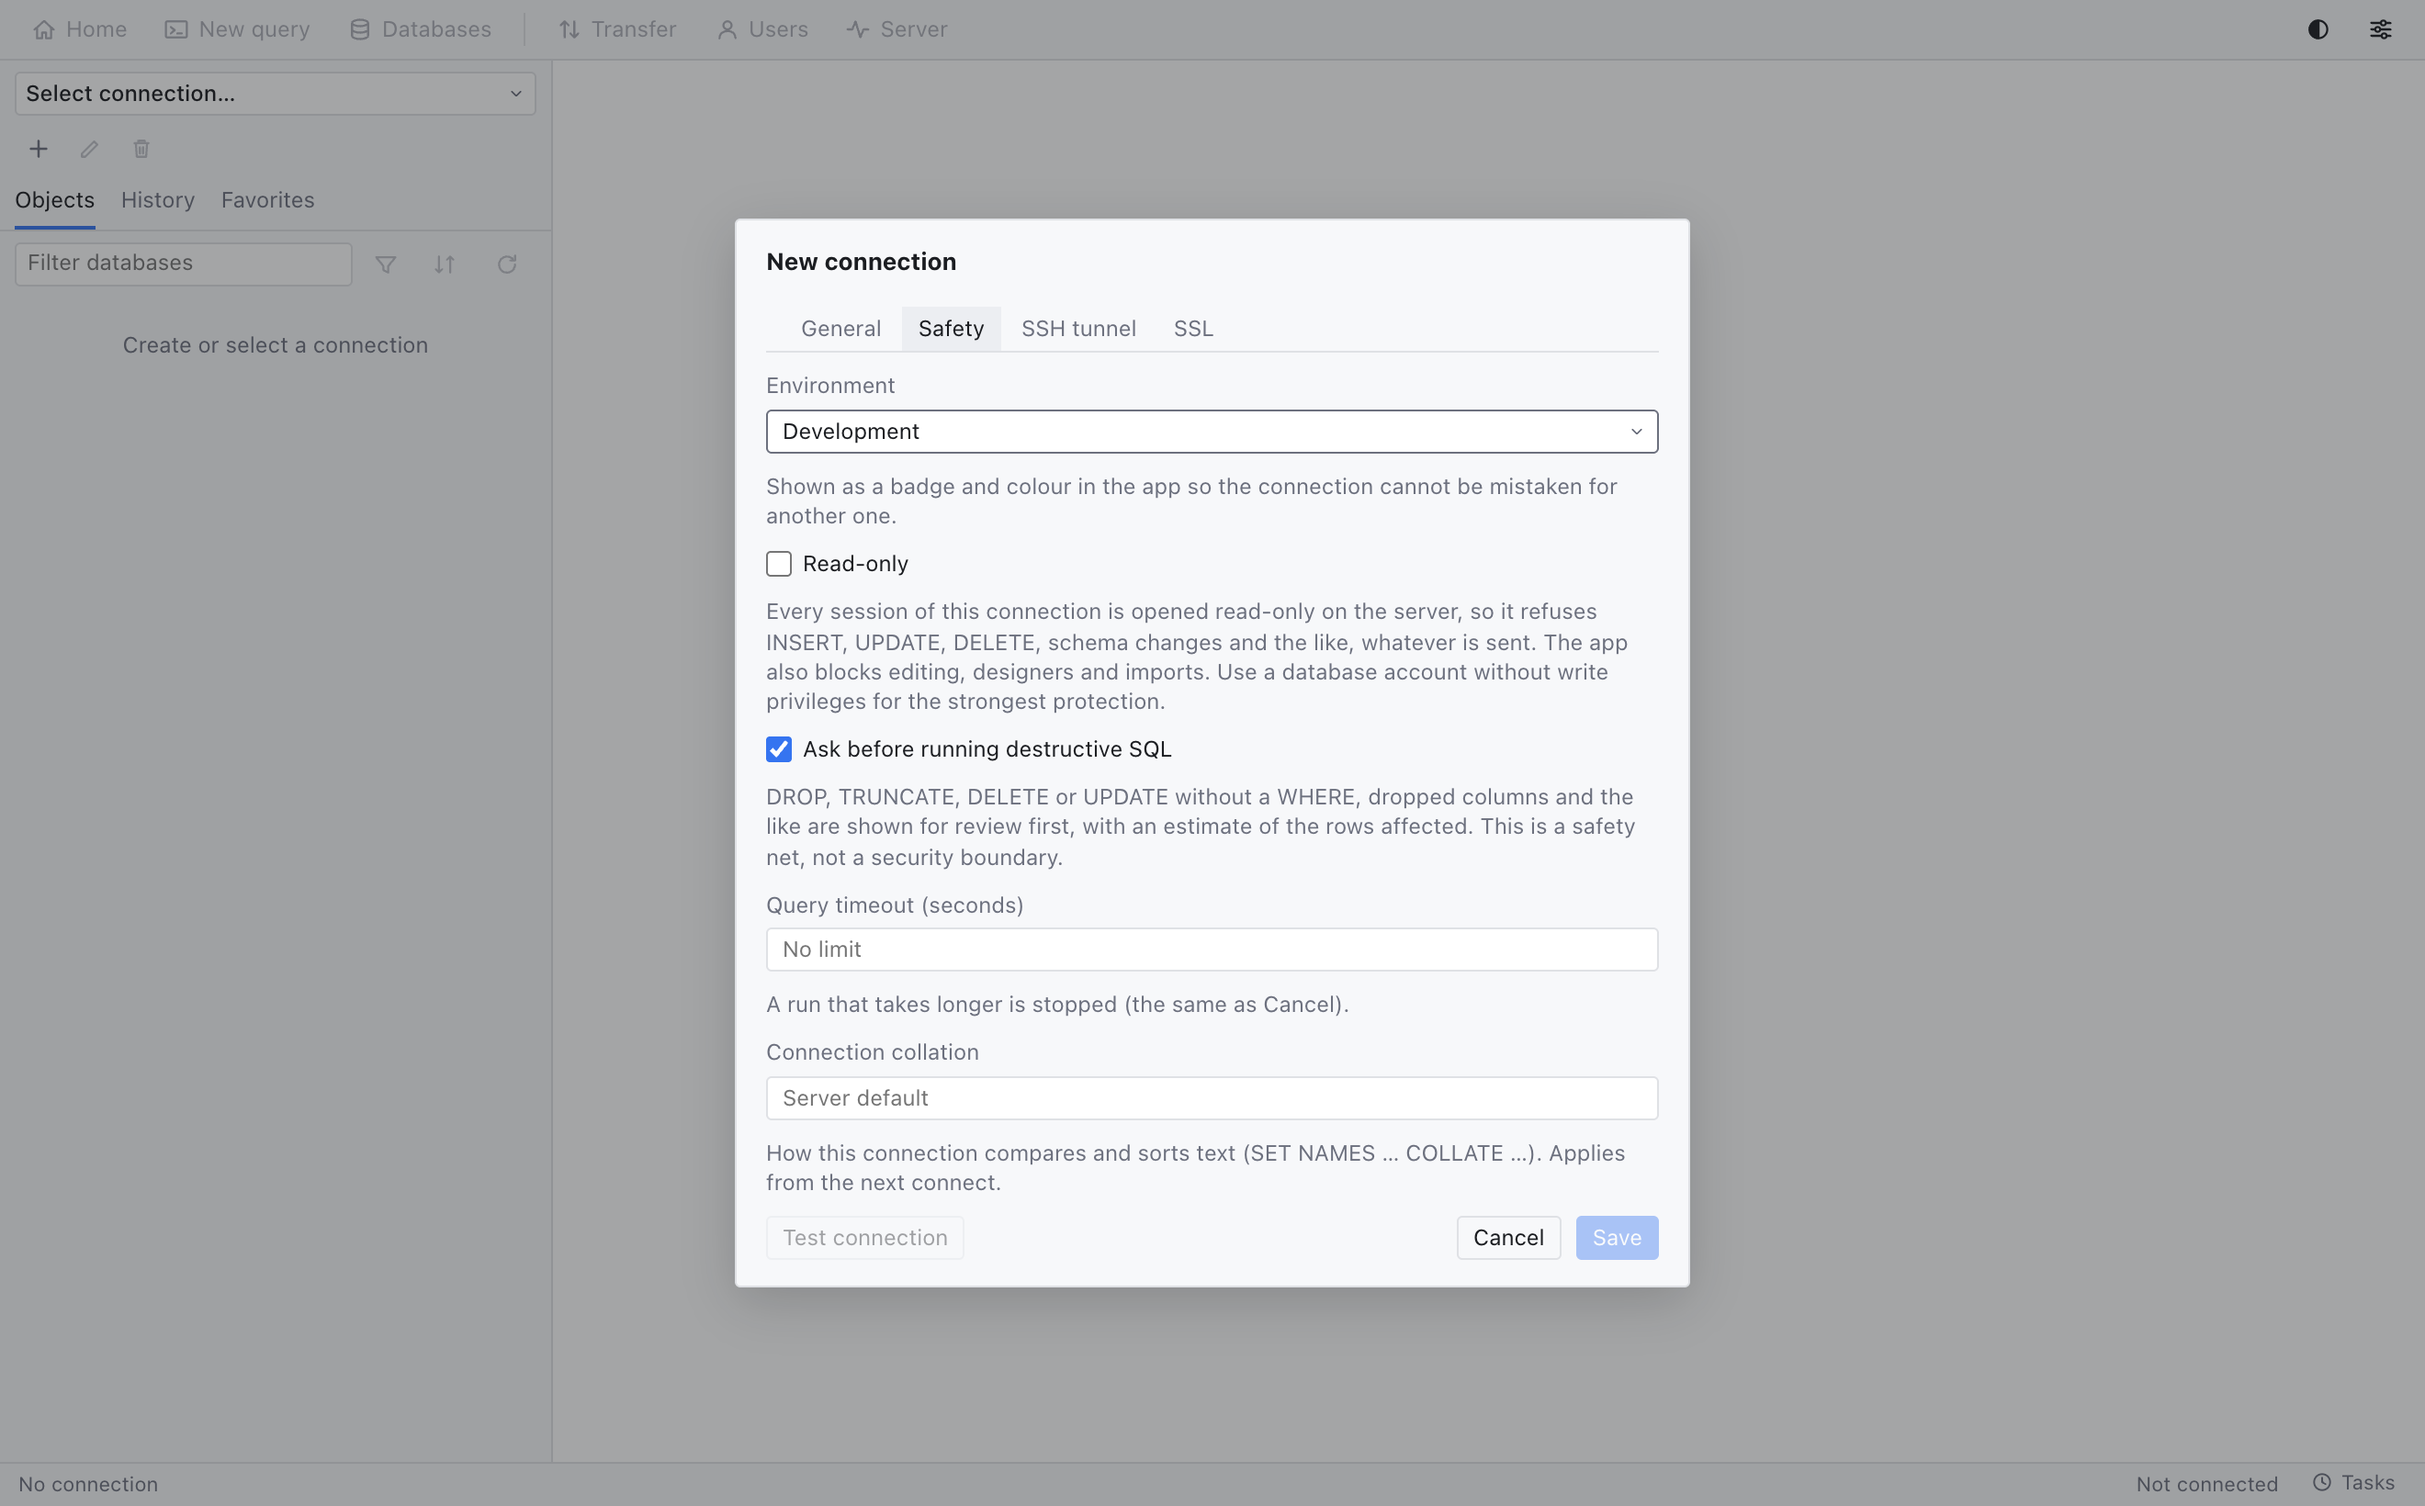
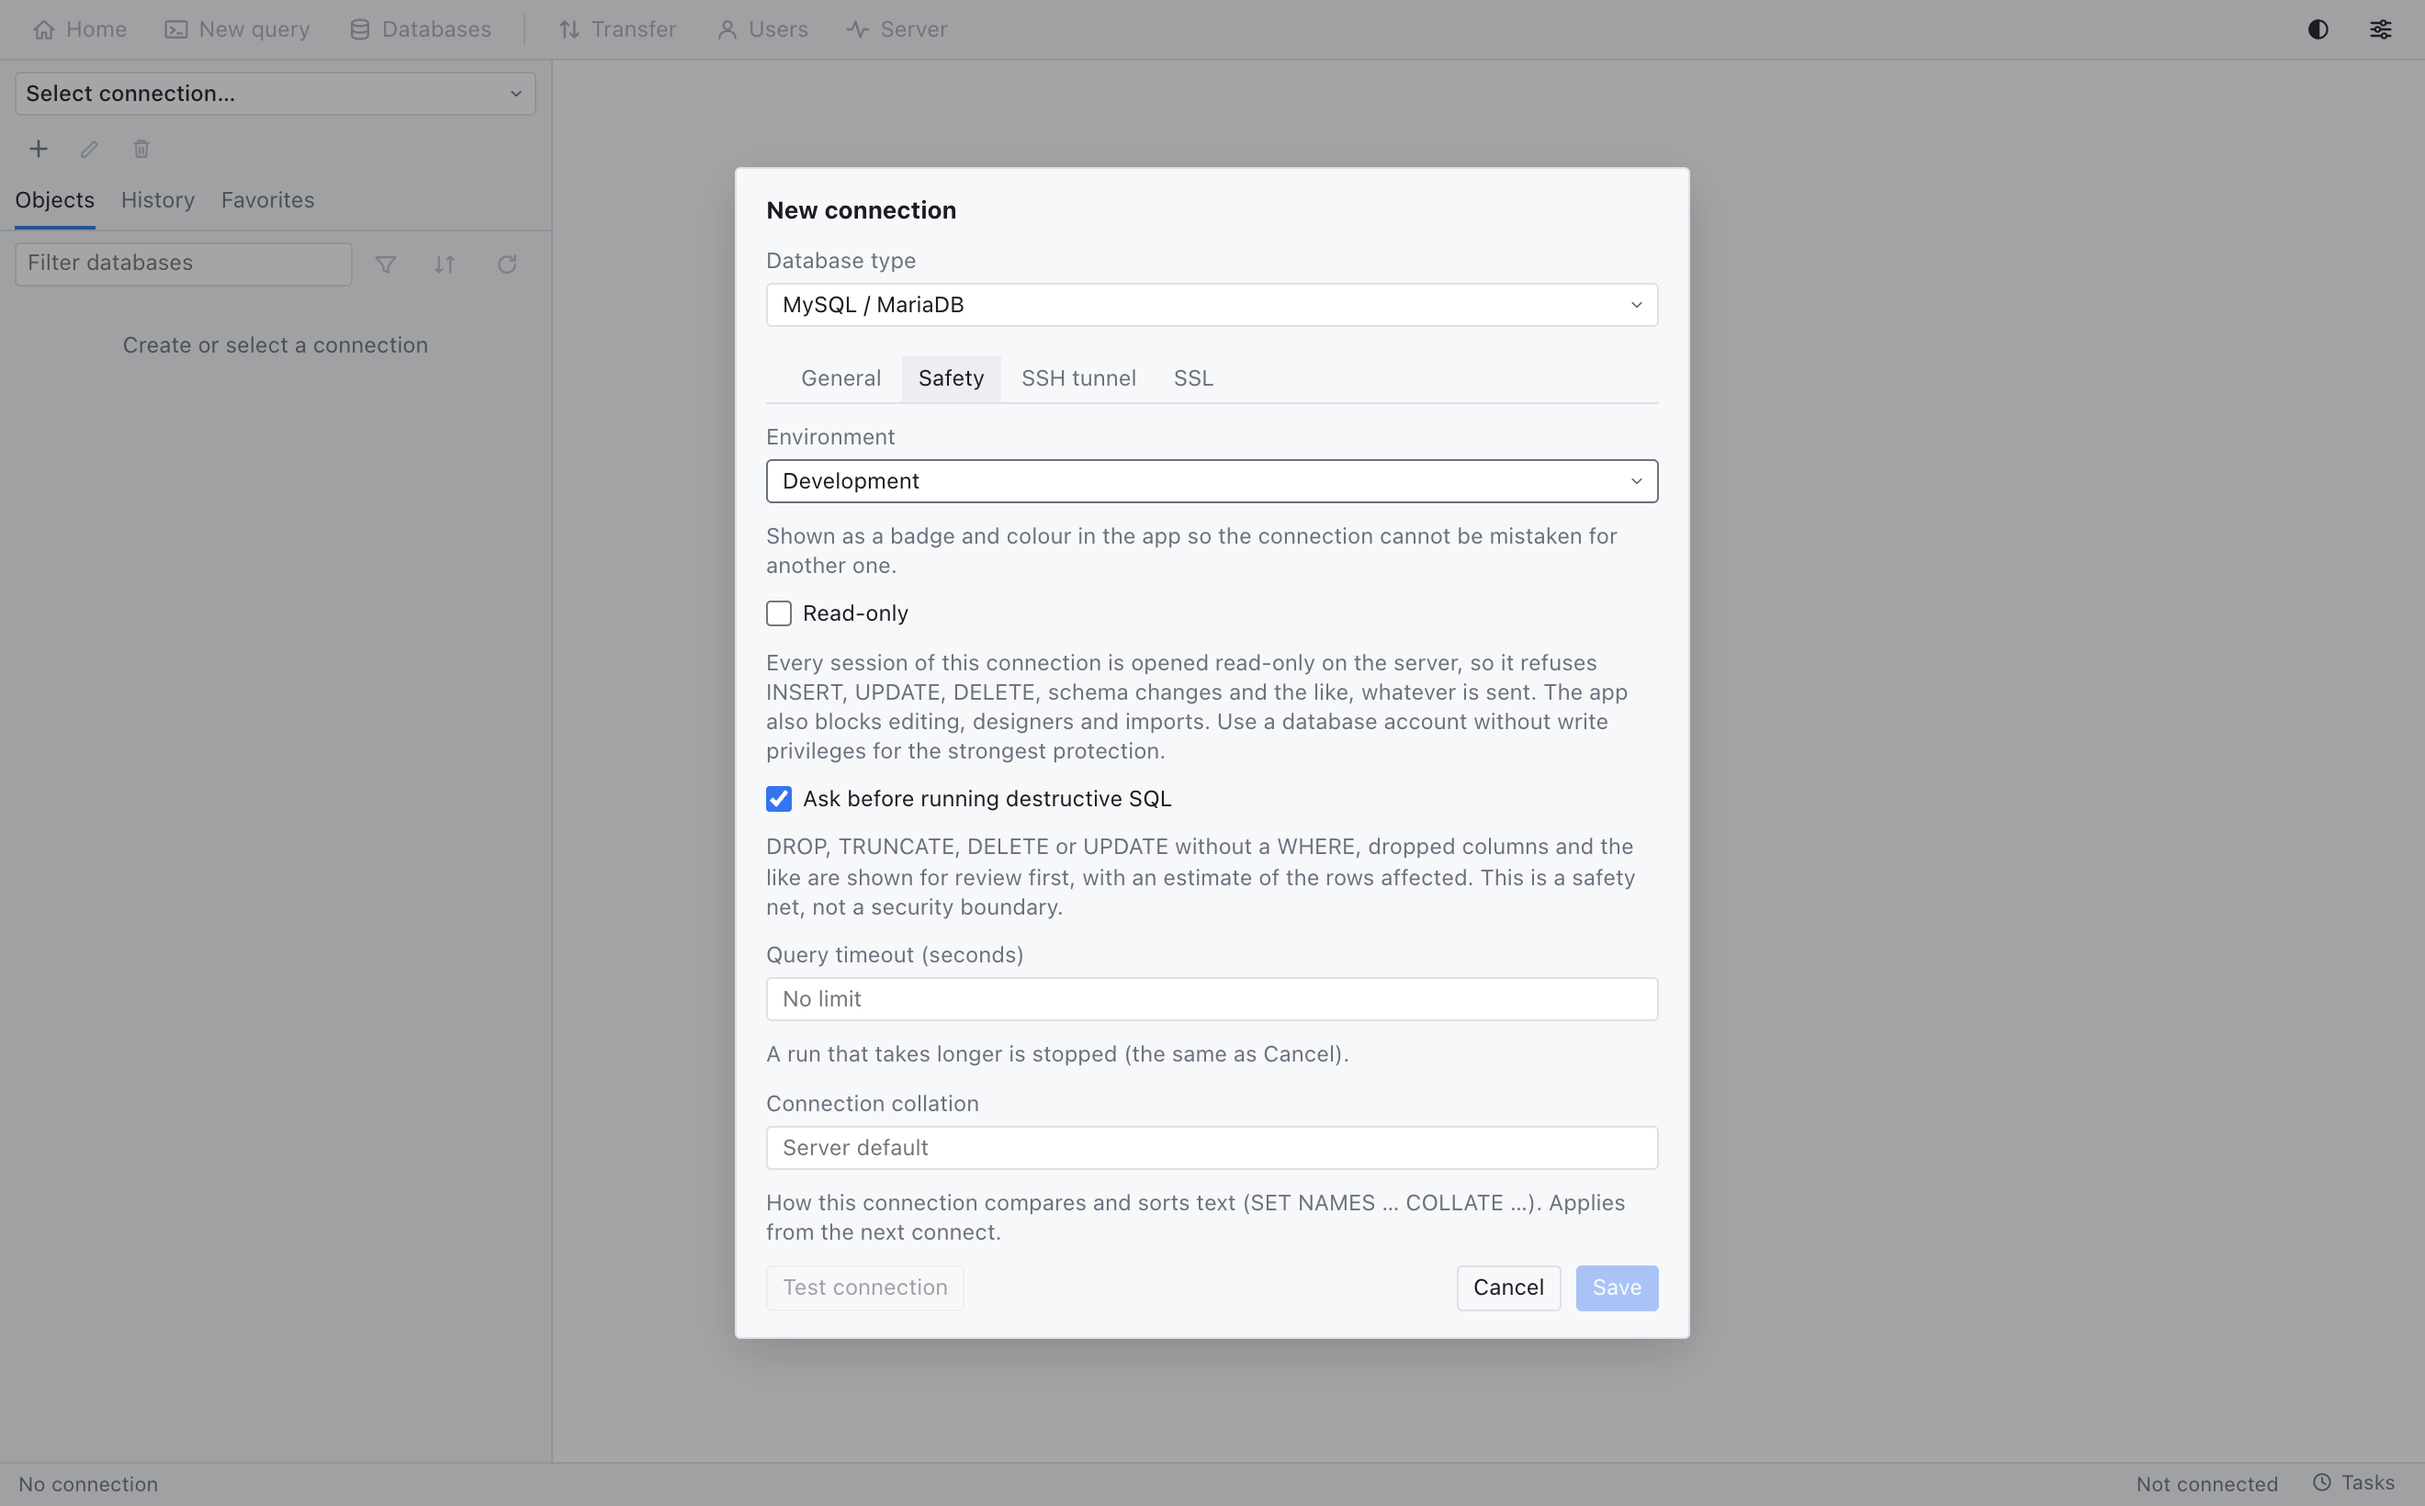
release: 0.2.0 (SQLite read-only, MariaDB fixes): version, changelog, README, manual, screenshots (#7)

diff --git a/apps/desktop/src/Manual.tsx b/apps/desktop/src/Manual.tsx
@@ -17,6 +17,16 @@ const SECTIONS: Section[] = [
       </ol>
       <p>Passwords are stored in the macOS Keychain, never in the app's own database or in logs.</p>
     </>) },
+  { id: "sqlite", title: "SQLite files", body: (
+    <>
+      <p>MyLoDB opens SQLite files too. In the connection dialog choose <b>Database type → SQLite file (read-only)</b>, pick the file and press <b>Test connection</b>.</p>
+      <ul>
+        <li>The file is opened <b>read-only</b>: nothing in MyLoDB can change it in this version, and opening never creates a file.</li>
+        <li>Browse tables, views, triggers, columns and indexes, run SQL, and page, sort, filter and count a table in the grid. Counts are exact; <code>REGEXP</code> is not available.</li>
+        <li>Users, server tools, events, routines and dump-based backup do not exist for a file: those buttons are disabled and their tooltips say why.</li>
+        <li>Not yet: editing, export from a table, and cancelling a running query.</li>
+      </ul>
+    </>) },
   { id: "browse", title: "Browsing objects", body: (
     <>
       <p>The sidebar tree shows databases, tables, views, routines, triggers and events. Click a name to filter the tree to it; click a table to see its columns.</p>

diff --git a/apps/desktop/src/AboutDialog.tsx b/apps/desktop/src/AboutDialog.tsx
@@ -25,7 +25,7 @@ export default function AboutDialog(props: { onClose(): void; onManual(): void }
             <div className="dim">Version {__APP_VERSION__}</div>
           </div>
         </div>
-        <p>An open-source MySQL and MariaDB manager for macOS, written in Rust and React. Built for people who miss SQLyog on the Mac.</p>
+        <p>An open-source MySQL, MariaDB and SQLite manager for macOS, written in Rust and React. Built for people who miss SQLyog on the Mac.</p>
         <table className="info kv">
           <tbody>
             <tr><th>Author</th><td>Omar Farook Hridoy (<ExtLink href={LINKS.author}>farookhridoy.com</ExtLink>)</td></tr>

diff --git a/README.md b/README.md
@@ -1,7 +1,7 @@
 <h1 align="center">MyLoDB</h1>
 
 <p align="center">
-  <b>An open-source MySQL and MariaDB manager for macOS, written in Rust and React.</b><br>
+  <b>An open-source MySQL, MariaDB and SQLite manager for macOS, written in Rust and React.</b><br>
   Browse, query, edit, design and administer your databases in one fast native window.
 </p>
 
@@ -30,7 +30,7 @@
 > **The first time you open MyLoDB, macOS shows a warning. That is expected.** The app is not signed with a paid Apple Developer certificate.
 > Click **Done** (not *Move to Trash*), then **System Settings → Privacy & Security → Open Anyway**. [Step-by-step](#how-to-install-and-open-mylodb).
 
-MyLoDB is for people who miss SQLyog on the Mac. It connects to MySQL and MariaDB and gives you a tree of your objects with a fast filter, a SQL editor with autocomplete, an editable data grid, a table designer, user and privilege management, server tools, and backup and import. It is built for safety (production colouring, server-enforced read-only, a review before destructive SQL) and for big tables (keyset paging, windowed grid, streamed exports).
+MyLoDB is for people who miss SQLyog on the Mac. It connects to MySQL and MariaDB (and opens SQLite files read-only) and gives you a tree of your objects with a fast filter, a SQL editor with autocomplete, an editable data grid, a table designer, user and privilege management, server tools, and backup and import. It is built for safety (production colouring, server-enforced read-only, a review before destructive SQL) and for big tables (keyset paging, windowed grid, streamed exports).
 
 *Screenshots show the real interface running on demo data, not a real server.*
 
@@ -46,6 +46,7 @@ MyLoDB is for people who miss SQLyog on the Mac. It connects to MySQL and MariaD
 | **Users and privileges** | Create, rename, lock, drop; global, database, table and column privileges shown as the exact GRANT / REVOKE diff. |
 | **Server tools** | Live overview, process list (kill), variables, status, maintenance (CHECK / OPTIMIZE / REPAIR), logs. |
 | **Backup and import** | Consistent SQL backup (one file or per table, optional zip), restore with a script preview, CSV import with column mapping, export to CSV, JSON, JSON Lines, SQL, XML, HTML, Excel. |
+| **SQLite** | Open a `.sqlite` / `.db` file read-only: browse tables, views and triggers, run SQL, page, sort and filter the data grid. Features a file cannot have (users, server tools, backup) are disabled with the reason. |
 | **Connections** | Passwords in the macOS Keychain. SSH tunnels (host key confirmation), SSL modes, connect by URL, groups, several connections open at once. |
 | **Safe by default** | Environment badge and colour, server-enforced read-only, query time limit, row-estimate review of destructive SQL, type-to-confirm on production. No telemetry. |
 | **Comfortable** | Light, dark and system themes, per-area fonts, four editor colour schemes, command palette (⌘K), native macOS menus, a built-in manual and a first-run tour. |
@@ -56,7 +57,7 @@ Get the installer from the **[Releases page](https://github.com/farookhridoy/myl
 
 | Your computer | File |
 |---|---|
-| Mac with Apple Silicon (M1 and later) | `MyLoDB_0.1.0_aarch64.dmg` |
+| Mac with Apple Silicon (M1 and later) | `MyLoDB_0.2.0_aarch64.dmg` |
 
 An Intel build and a signed build are on the [roadmap](docs/ROADMAP.md). Not sure which Mac you have? Apple menu → **About This Mac**.
 
@@ -125,7 +126,7 @@ Single runs on one machine, so treat them as indications. The method, the limits
 
 ## Status
 
-Version **0.1.0** is the first public release. Phases 1 to 13 of the [roadmap](docs/ROADMAP.md) are done: connection manager, object browser, SQL editor, data grid, table designer, users, server tools, backup and import, production safety, large-table engine, admin console, shell and preferences, workspace features. The Rust suite passes in CI on MySQL 8.0, 8.4 and 9 and MariaDB 10.11 and 11.4, and locally on MySQL 9.7 and MariaDB 13. MySQL 5.7 still fails some integration tests and is unsupported ([details](docs/SERVER_COMPATIBILITY.md)). Not yet: PostgreSQL / SQLite / SQL Server (design in [docs/ENGINE_ABSTRACTION.md](docs/ENGINE_ABSTRACTION.md)), schema compare, visual query builder, Windows and Linux builds, and a signed and notarised build.
+Version **0.2.0** adds SQLite files (read-only) and fixes MariaDB 10.11 / 11.4. Version 0.1.0 was the first public release. Phases 1 to 13 of the [roadmap](docs/ROADMAP.md) are done: connection manager, object browser, SQL editor, data grid, table designer, users, server tools, backup and import, production safety, large-table engine, admin console, shell and preferences, workspace features. The Rust suite passes in CI on MySQL 8.0, 8.4 and 9 and MariaDB 10.11 and 11.4, and locally on MySQL 9.7 and MariaDB 13. MySQL 5.7 still fails some integration tests and is unsupported ([details](docs/SERVER_COMPATIBILITY.md)). Not yet: SQLite editing, PostgreSQL and SQL Server (design and progress in [docs/ENGINE_ABSTRACTION.md](docs/ENGINE_ABSTRACTION.md)), Windows and Linux builds, and a signed and notarised build.
 
 ## Build it yourself
 

diff --git a/docs/MANUAL.md b/docs/MANUAL.md
@@ -1,6 +1,6 @@
 # MyLoDB user manual
 
-Version 0.1.0. The same text is inside the app: **Help → User Manual**. Screenshots show the real interface running on demo data (a fake `shop` database), not a real server.
+Version 0.2.0. The same text is inside the app: **Help → User Manual**. Screenshots show the real interface running on demo data (a fake `shop` database), not a real server.
 
 ## Contents
 
@@ -19,7 +19,7 @@ Version 0.1.0. The same text is inside the app: **Help → User Manual**. Screen
 
 ## 1. Install and first launch
 
-Download `MyLoDB_0.1.0_aarch64.dmg` from the [Releases page](https://github.com/farookhridoy/mylodb/releases/latest) (Mac with Apple Silicon) and drag **MyLoDB** into **Applications**.
+Download `MyLoDB_0.2.0_aarch64.dmg` from the [Releases page](https://github.com/farookhridoy/mylodb/releases/latest) (Mac with Apple Silicon) and drag **MyLoDB** into **Applications**.
 
 MyLoDB is not signed with a paid Apple Developer certificate, so macOS warns you the first time. This is expected, and you do it once:
 
@@ -50,6 +50,17 @@ Click **+** above the object tree (or **Database → New Database Connection…*
 The **Safety** tab sets the **Environment** (Development, Staging, Production), a server-enforced **Read-only** session, a **query time limit**, and whether destructive SQL is reviewed first.
 
 Several connections can be open at once; each is a tab above the workspace. Closing a tab disconnects only that connection. Each connection remembers its own open tabs and tree state.
+
+### SQLite files
+
+Choose **Database type → SQLite file (read-only)** in the connection dialog, pick the file with **Browse…** and press **Test connection**. A SQLite connection:
+
+* opens the file **read-only**: MyLoDB cannot change it in this version (the file is opened read-only and the session is set to `query_only`, and opening a file never creates one);
+* browses tables, views, triggers, columns and indexes (the primary key is shown as `PRIMARY`), runs SQL with results as NULL-aware text (BLOBs as hex), and pages, filters, sorts and counts a table in the data grid (counts are exact; `REGEXP` is not available);
+* has no server home, users, server tools, events, routines or dump-based backup: those buttons are disabled and their tooltips say why;
+* does not yet offer editing, export from a table, or cancelling a running query.
+
+![A SQLite connection in the connection dialog](images/sqlite-dialog.png)
 
 ## 3. Browse objects
 

diff --git a/CHANGELOG.md b/CHANGELOG.md
@@ -1,5 +1,23 @@
 # Changelog
 
+## 0.2.0 (2026-11-21)
+
+**Added**
+* **SQLite files, read-only.** Choose "SQLite file" in the connection dialog: browse tables, views, triggers, columns and indexes, run SQL, and use the data grid (paging, filters, sort, exact counts). Features a file cannot have (users, events, routines, server tools, dump-based backup) are disabled with the reason in their tooltip. The file is opened read-only and is never created or changed.
+* The Analyze button is disabled with the server's reason on servers that cannot `EXPLAIN ANALYZE` (MySQL before 8.0.18).
+
+**Fixed**
+* MariaDB 10.10 and later: the collation list (table designer, Alter database) panicked or showed no default collation, and a table's character set was lost in its properties. MariaDB 10.11 and 11.4 now pass the whole integration suite in CI.
+* Edits made within a second of switching connections are saved for the connection you left (already in 0.1.0 notes: kept here for upgraders).
+
+**Changed (internal)**
+* Groundwork for more engines: one shared place for SQL quoting (NUL and Ctrl-Z in string literals are now escaped everywhere), an engine-neutral `Backend` interface, and the app reading through it.
+* The test suites run on Linux CI as well as macOS.
+
+**Known limits**
+* SQLite is read-only: no editing, no export from a table, no cancel of a running query.
+* Unsigned and not notarised; Apple Silicon only; MySQL, MariaDB and SQLite only. MySQL 5.7 still fails some integration tests and is unsupported.
+
 ## 0.1.0 (2026-11-21)
 
 First public release. macOS, Apple Silicon, unsigned.
